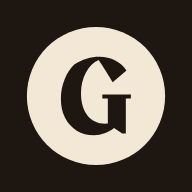
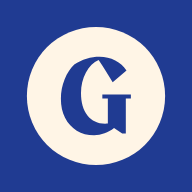
Switch the palette to Cobalt & apricot (Davide's palette C)
Ink #203B92, Paper #FFF5E6, Accent #FF9A57, accent text #9B3E13, from the REV01 guide.
Derived colours are contrast-checked (all text pairs pass 4.5:1). Buttons follow the
palette variables instead of hard-coded brass, the automation ladder climbs from blue to
apricot, and the favicon, app icons, theme colour, manifest and share image are rebuilt.
The Espresso & brass palette stays in the Looks panel (?looks=1) for comparison.

diff --git a/public/assets/js/looks.js b/public/assets/js/looks.js
@@ -2,17 +2,17 @@
 // It is off for visitors. Add ?looks=1 to any address to turn it on in this browser, ?looks=0 to turn it off.
 // The choice is remembered on this computer, and "Reset" returns the page to the current look.
 (function () {
-  var KEY = 'gdm:looks:v3';
+  var KEY = 'gdm:looks:v4';
   var HEADS = [['', 'Current (Inter + serif accent)'], ['rakkas', 'Rakkas'], ['newsreader', 'Newsreader'], ['zilla', 'Zilla Slab'], ['bricolage', 'Bricolage Grotesque'], ['sourcesans', 'Source Sans 3'], ['manrope', 'Manrope'], ['instrument', 'Instrument Serif']];
   var BODIES = [['', 'Current (Inter)'], ['sourcesans', 'Source Sans 3'], ['manrope', 'Manrope'], ['newsreader', 'Newsreader'], ['zilla', 'Zilla Slab'], ['bricolage', 'Bricolage Grotesque']];
-  var PALETTES = [['', 'Current'], ['aubergine', 'Aubergine & citron'], ['a', 'A Forest & linen'], ['b', 'B Slate & ember'], ['c', 'C Cobalt & apricot'], ['lamplight', 'Lamplight (walnut & amber)'], ['navybrass', 'Navy & brass'], ['evergreen', 'Evergreen & marigold'], ['tomato', 'Charcoal & tomato'], ['denim', 'Denim & butter'], ['plum', 'Plum & peach'], ['sage', 'Charcoal & sage'], ['twoam', 'Two a.m. (midnight & sky)'], ['burnt', 'Burnt orange & cream'], ['cobaltlemon', 'Cobalt & lemon'], ['emeraldblush', 'Emerald & blush'], ['oxblood', 'Oxblood & gold'], ['violetlime', 'Violet & lime'], ['tealcoral', 'Deep teal & coral'], ['electric', 'Black & electric green'], ['tobacco', 'Tobacco & turquoise'], ['ketchup', 'Ketchup & mustard'], ['poolsun', 'Pool blue & sunflower'], ['fireside', 'Fireside (char & ember)'], ['bankerlamp', 'Library lamp (library green & brass)'], ['mahogany', 'Mahogany & amber'], ['bookbinder', 'Bookbinder (burgundy & gilt)'], ['mossfire', 'Moss & firelight'], ['snowedin', 'Snowed in (pine night & ember)']];
-  var BROWNS = [['saddle', 'Saddle leather & brass'], ['smoke', 'Smoke & parchment'], ['whiskey', 'Whiskey & oak'], ['espresso', 'Espresso & brass'], ['walnut', 'Walnut & gold leaf'], ['champagne', 'Saddle & champagne'], ['cocoa', 'Cocoa & old gold'], ['mocha', 'Mocha & marigold'], ['polished', 'Leather & polished gold'], ['burnished', 'Smoke & burnished brass'], ['honey', 'Oak & honey']];
+  var PALETTES = [['cobalt', 'Cobalt & apricot (live)'], ['', 'Original black & amber'], ['aubergine', 'Aubergine & citron'], ['a', 'A Forest & linen'], ['b', 'B Slate & ember'], ['lamplight', 'Lamplight (walnut & amber)'], ['navybrass', 'Navy & brass'], ['evergreen', 'Evergreen & marigold'], ['tomato', 'Charcoal & tomato'], ['denim', 'Denim & butter'], ['plum', 'Plum & peach'], ['sage', 'Charcoal & sage'], ['twoam', 'Two a.m. (midnight & sky)'], ['burnt', 'Burnt orange & cream'], ['cobaltlemon', 'Cobalt & lemon'], ['emeraldblush', 'Emerald & blush'], ['oxblood', 'Oxblood & gold'], ['violetlime', 'Violet & lime'], ['tealcoral', 'Deep teal & coral'], ['electric', 'Black & electric green'], ['tobacco', 'Tobacco & turquoise'], ['ketchup', 'Ketchup & mustard'], ['poolsun', 'Pool blue & sunflower'], ['fireside', 'Fireside (char & ember)'], ['bankerlamp', 'Library lamp (library green & brass)'], ['mahogany', 'Mahogany & amber'], ['bookbinder', 'Bookbinder (burgundy & gilt)'], ['mossfire', 'Moss & firelight'], ['snowedin', 'Snowed in (pine night & ember)']];
+  var BROWNS = [['saddle', 'Saddle leather & brass'], ['smoke', 'Smoke & parchment'], ['whiskey', 'Whiskey & oak'], ['espresso', 'Espresso & brass (previous live look)'], ['walnut', 'Walnut & gold leaf'], ['champagne', 'Saddle & champagne'], ['cocoa', 'Cocoa & old gold'], ['mocha', 'Mocha & marigold'], ['polished', 'Leather & polished gold'], ['burnished', 'Smoke & burnished brass'], ['honey', 'Oak & honey']];
   var SHAPES = [['', 'Rounded'], ['square', 'Square']];
   var PRESETS = [['Designer 01', 'newsreader', 'manrope'], ['Designer 02', 'zilla', 'sourcesans'], ['Designer 03', 'bricolage', 'sourcesans'], ['Rakkas + Source Sans', 'rakkas', 'sourcesans']];
   var HEROES = [['', 'Photo collage'], ['cutout', 'Cut-out portrait (designer)']];
   var LONGS = [['body', 'Body font (recommended)'], ['head', 'Headline font']];
   var SCOPES = [['signature', 'Signature only (recommended)'], ['all', 'All headlines']];
-  var EMPTY = { head: 'newsreader', body: 'sourcesans', palette: 'espresso', shape: '', hero: 'cutout', long: 'body', scope: 'signature' };
+  var EMPTY = { head: 'newsreader', body: 'sourcesans', palette: 'cobalt', shape: '', hero: 'cutout', long: 'body', scope: 'signature' };
   var state = Object.assign({}, EMPTY);
   try { var saved = JSON.parse(localStorage.getItem(KEY)); if (saved) state = Object.assign(state, saved); } catch (e) {}
 

diff --git a/public/assets/css/site.css b/public/assets/css/site.css
@@ -1585,8 +1585,8 @@ html.reveal-ready .mirror-grid:not(.in) .notif { opacity: 0; transform: translat
 .sj-eyebrow { margin-bottom: 8px; color: rgb(var(--r-accent)); font-size: 12.5px; font-weight: 700; letter-spacing: 0.14em; text-transform: uppercase; }
 .skool-join .capture-lead { margin-bottom: 18px; font-size: clamp(22px, 2.3vw, 27px); }
 .sj-actions { display: flex; flex-wrap: wrap; align-items: center; gap: 12px 18px; }
-.skool-join .btn { margin-top: 0; height: 60px; padding-inline: 28px; font-size: 18px; font-weight: 700; background: rgb(var(--r-accent)); color: #1e1611; box-shadow: 0 0 0 4px rgb(var(--r-accent) / 0.22), 0 12px 32px rgb(var(--r-accent) / 0.32); }
-.skool-join .btn:hover { background: #e3bd72; transform: translateY(-1px); }
+.skool-join .btn { margin-top: 0; height: 60px; padding-inline: 28px; font-size: 18px; font-weight: 700; background: rgb(var(--r-accent)); color: rgb(var(--r-ink)); box-shadow: 0 0 0 4px rgb(var(--r-accent) / 0.22), 0 12px 32px rgb(var(--r-accent) / 0.32); }
+.skool-join .btn:hover { background: rgb(var(--r-btn-hover, var(--r-btn))); transform: translateY(-1px); }
 .sj-arrow { display: inline-block; font-size: 22px; line-height: 1; transition: transform 0.15s var(--ease); }
 .skool-join .btn:hover .sj-arrow { transform: translateX(4px); }
 .sj-on { display: flex; align-items: center; gap: 8px; margin: 0; color: var(--fog); font-size: 13.5px; }
@@ -1602,8 +1602,8 @@ html.reveal-ready .mirror-grid:not(.in) .notif { opacity: 0; transform: translat
 .join-lead { flex: 1 1 280px; max-width: 24ch; color: var(--paper); font-size: clamp(23px, 2.5vw, 30px); font-weight: 700; line-height: 1.2; letter-spacing: -0.02em; text-align: left; }
 .join-card .sj-actions { flex: 0 1 auto; justify-content: flex-start; }
 .join-card .sj-on { color: var(--fog); }
-.join-card .join-btn, .join-inline .join-btn, .sticky-cta .btn { background: rgb(var(--r-accent)); color: #1e1611; }
-.join-card .join-btn:hover, .join-inline .join-btn:hover, .sticky-cta .btn:hover { background: #e3bd72; color: #1e1611; }
+.join-card .join-btn, .join-inline .join-btn, .sticky-cta .btn { background: rgb(var(--r-accent)); color: rgb(var(--r-ink)); }
+.join-card .join-btn:hover, .join-inline .join-btn:hover, .sticky-cta .btn:hover { background: rgb(var(--r-btn-hover, var(--r-btn))); color: rgb(var(--r-ink)); }
 .join-card .join-btn, .join-inline .join-btn { height: 60px; margin-top: 0; padding-inline: 28px; font-size: 18px; font-weight: 700; box-shadow: 0 0 0 4px rgb(var(--r-accent) / 0.22), 0 12px 32px rgb(var(--r-accent) / 0.28); }
 .join-card .join-btn:hover .sj-arrow, .join-inline .join-btn:hover .sj-arrow { transform: translateX(4px); }
 .join-inline { display: flex; flex-wrap: wrap; align-items: center; gap: 12px 18px; margin-top: 28px; }

diff --git a/public/assets/css/looks.css b/public/assets/css/looks.css
@@ -878,6 +878,35 @@ html[data-palette="espresso"] {
   --r-calc: 52 45 41;
   --r-muted-light: 111 102 91;
   --r-notif: 59 52 48;
+  --r-btn-hover: 227 189 114;
+}
+
+html[data-palette="cobalt"] {
+  --r-ink: 32 59 146;
+  --r-paper: 255 245 230;
+  --r-accent: 255 154 87;
+  --r-accent-text: 155 62 19;
+  --r-terra: 155 62 19;
+  --r-btn: 255 154 87;
+  --r-graphite: 50 75 155;
+  --r-cream: 240 230 218;
+  --r-teal: 150 210 200;
+  --r-blue: 160 190 245;
+  --r-coral: 255 176 140;
+  --r-band-a: 24 44 110;
+  --r-band-b: 20 37 91;
+  --r-card-b: 28 52 128;
+  --r-qbg: 18 32 80;
+  --r-phone-screen: 21 39 96;
+  --r-phone-frame: 81 100 164;
+  --r-night: 21 39 96;
+  --r-calc: 54 79 157;
+  --r-notif: 61 84 160;
+  --r-soft: 228 223 220;
+  --r-fog: 202 207 230;
+  --r-muted-light: 88 99 140;
+  --r-btn-hover: 255 176 118;
+  --r-error-soft: 255 196 206;
 }
 
 html[data-palette="walnut"] {
@@ -1242,4 +1271,16 @@ html[data-hero="cutout"] .hero .hero-start { order: 4; justify-self: start; marg
 @media (max-width: 520px) { html[data-hero="cutout"] .hero .hero-start { justify-self: stretch; } }
 @media (min-width: 881px) {
   html[data-hero="cutout"] .hero .hero-start { grid-column: 1; grid-row: 4; margin-top: clamp(32px, 6vh, 60px); }
+}
+
+/* ---- cobalt: the ladder climbs from blue to apricot; apricot at partial strength over blue turns muddy ---- */
+html[data-palette="cobalt"] .s1 { background: rgb(var(--r-card-b)); border-color: rgb(var(--r-accent) / 0.5); }
+html[data-palette="cobalt"] .s2 { background: rgb(var(--r-graphite)); color: var(--paper); }
+html[data-palette="cobalt"] .s3 { background: rgb(var(--r-cream)); color: rgb(var(--r-qbg)); }
+html[data-palette="cobalt"] .band-amber {
+  background:
+    radial-gradient(ellipse 60% 420px at 50% 0, rgb(var(--r-blue) / 0.22), transparent 70%),
+    radial-gradient(ellipse 45% 380px at 100% 100%, rgb(var(--r-accent) / 0.10), transparent 70%),
+    rgb(var(--r-qbg));
+  border-block-color: rgb(var(--r-blue) / 0.3);
 }

diff --git a/public/assets/css/theme.css b/public/assets/css/theme.css
@@ -53,6 +53,35 @@ html[data-palette="espresso"] {
   --r-calc: 52 45 41;
   --r-muted-light: 111 102 91;
   --r-notif: 59 52 48;
+  --r-btn-hover: 227 189 114;
+}
+
+html[data-palette="cobalt"] {
+  --r-ink: 32 59 146;
+  --r-paper: 255 245 230;
+  --r-accent: 255 154 87;
+  --r-accent-text: 155 62 19;
+  --r-terra: 155 62 19;
+  --r-btn: 255 154 87;
+  --r-graphite: 50 75 155;
+  --r-cream: 240 230 218;
+  --r-teal: 150 210 200;
+  --r-blue: 160 190 245;
+  --r-coral: 255 176 140;
+  --r-band-a: 24 44 110;
+  --r-band-b: 20 37 91;
+  --r-card-b: 28 52 128;
+  --r-qbg: 18 32 80;
+  --r-phone-screen: 21 39 96;
+  --r-phone-frame: 81 100 164;
+  --r-night: 21 39 96;
+  --r-calc: 54 79 157;
+  --r-notif: 61 84 160;
+  --r-soft: 228 223 220;
+  --r-fog: 202 207 230;
+  --r-muted-light: 88 99 140;
+  --r-btn-hover: 255 176 118;
+  --r-error-soft: 255 196 206;
 }
 
 /* ---- exact accent on light bands ----
@@ -188,4 +217,16 @@ html[data-hero="cutout"] .hero .hero-start { order: 4; justify-self: start; marg
   .stairs-scale { justify-content: flex-end; border-top: 0; padding-top: 0; margin-top: 14px; }
   .stairs-scale .ss-low { display: none; }
   .stairs-scale span:last-child::before { content: "\2193  "; color: var(--amber); }
+}
+
+/* ---- cobalt: the ladder climbs from blue to apricot; apricot at partial strength over blue turns muddy ---- */
+html[data-palette="cobalt"] .s1 { background: rgb(var(--r-card-b)); border-color: rgb(var(--r-accent) / 0.5); }
+html[data-palette="cobalt"] .s2 { background: rgb(var(--r-graphite)); color: var(--paper); }
+html[data-palette="cobalt"] .s3 { background: rgb(var(--r-cream)); color: rgb(var(--r-qbg)); }
+html[data-palette="cobalt"] .band-amber {
+  background:
+    radial-gradient(ellipse 60% 420px at 50% 0, rgb(var(--r-blue) / 0.22), transparent 70%),
+    radial-gradient(ellipse 45% 380px at 100% 100%, rgb(var(--r-accent) / 0.10), transparent 70%),
+    rgb(var(--r-qbg));
+  border-block-color: rgb(var(--r-blue) / 0.3);
 }

diff --git a/public/assets/css/automation.css b/public/assets/css/automation.css
@@ -10,8 +10,8 @@
 .hc-eyebrow { margin: 0 0 8px; color: rgb(var(--r-accent)); font-size: 12.5px; font-weight: 700; letter-spacing: 0.14em; text-transform: uppercase; }
 .hero-card .capture-lead { margin-bottom: 18px; font-size: clamp(21px, 2.2vw, 26px); }
 .hc-actions { display: flex; flex-wrap: wrap; align-items: center; gap: 14px 22px; }
-.hc-btn.btn { height: 56px; margin: 0; padding-inline: 24px; background: rgb(var(--r-accent)); color: #1e1611; font-weight: 700; box-shadow: 0 0 0 4px rgb(var(--r-accent) / 0.22), 0 12px 32px rgb(var(--r-accent) / 0.28); }
-.hc-btn.btn:hover { background: #e3bd72; }
+.hc-btn.btn { height: 56px; margin: 0; padding-inline: 24px; background: rgb(var(--r-accent)); color: rgb(var(--r-ink)); font-weight: 700; box-shadow: 0 0 0 4px rgb(var(--r-accent) / 0.22), 0 12px 32px rgb(var(--r-accent) / 0.28); }
+.hc-btn.btn:hover { background: rgb(var(--r-btn-hover, var(--r-btn))); }
 .hc-btn:hover .sj-arrow { transform: translateX(4px); }
 .hero-card .capture-note { margin-top: 16px; }
 .hc-alt { color: var(--paper); font-size: 16px; font-weight: 600; text-decoration: underline; text-decoration-color: rgb(var(--r-accent)); text-underline-offset: 4px; }
@@ -71,7 +71,7 @@
 .work .check-list { margin-top: 22px; }
 .work-actions { display: flex; flex-wrap: wrap; align-items: center; gap: 14px 22px; margin-top: 30px; }
 .work-btn.btn { width: auto; height: 60px; margin: 0; padding: 0 28px; background: rgb(var(--r-btn)); color: rgb(var(--r-ink)); border-radius: var(--radius-sm); font-size: 18px; font-weight: 700; text-decoration: none; box-shadow: 0 0 0 4px rgb(var(--r-accent) / 0.22), 0 12px 32px rgb(var(--r-accent) / 0.28); }
-.work-btn.btn:hover { background: #e3bd72; }
+.work-btn.btn:hover { background: rgb(var(--r-btn-hover, var(--r-btn))); }
 .work-or { color: var(--soft); font-size: 16px; }
 .work-or a { color: var(--paper); font-weight: 600; }
 .work-photo { position: relative; max-width: 420px; margin: 0 auto; }

diff --git a/public/index.html b/public/index.html
@@ -1,12 +1,12 @@
 <!doctype html>
-<html lang="en" data-head="newsreader" data-body="sourcesans" data-palette="espresso" data-hero="cutout" data-long="body" data-scope="signature">
+<html lang="en" data-head="newsreader" data-body="sourcesans" data-palette="cobalt" data-hero="cutout" data-long="body" data-scope="signature">
 <head>
   <meta charset="utf-8">
   <meta name="viewport" content="width=device-width, initial-scale=1, viewport-fit=cover">
   <title>Put AI to work. Get your time back. | Gabriel De Almeida</title>
   <meta name="description" content="Practical AI automation for businesses, from a software engineer and founder. Find the work worth automating, build it with a person in the loop, and get your time back.">
   <link rel="canonical" href="https://gabrieldealmeida.com/">
-  <meta name="theme-color" content="#1E1611">
+  <meta name="theme-color" content="#203B92">
   <meta name="color-scheme" content="dark">
 
   <meta property="og:type" content="website">

diff --git a/public/privacy/index.html b/public/privacy/index.html
@@ -1,12 +1,12 @@
 <!doctype html>
-<html lang="en" data-head="newsreader" data-body="sourcesans" data-palette="espresso" data-hero="cutout" data-long="body" data-scope="signature">
+<html lang="en" data-head="newsreader" data-body="sourcesans" data-palette="cobalt" data-hero="cutout" data-long="body" data-scope="signature">
 <head>
   <meta charset="utf-8">
   <meta name="viewport" content="width=device-width, initial-scale=1, viewport-fit=cover">
   <title>Privacy | Gabriel De Almeida</title>
   <meta name="description" content="What this site collects, why, and who handles it.">
   <link rel="canonical" href="https://gabrieldealmeida.com/privacy">
-  <meta name="theme-color" content="#1E1611">
+  <meta name="theme-color" content="#203B92">
   <meta name="color-scheme" content="dark">
   <link rel="icon" href="/favicon.svg" type="image/svg+xml">
   <link rel="icon" href="/favicon.ico" sizes="48x48">

diff --git a/public/404.html b/public/404.html
@@ -1,11 +1,11 @@
 <!doctype html>
-<html lang="en" data-head="newsreader" data-body="sourcesans" data-palette="espresso" data-hero="cutout" data-long="body" data-scope="signature">
+<html lang="en" data-head="newsreader" data-body="sourcesans" data-palette="cobalt" data-hero="cutout" data-long="body" data-scope="signature">
 <head>
   <meta charset="utf-8">
   <meta name="viewport" content="width=device-width, initial-scale=1, viewport-fit=cover">
   <title>Page not found | Gabriel De Almeida</title>
   <meta name="robots" content="noindex">
-  <meta name="theme-color" content="#1E1611">
+  <meta name="theme-color" content="#203B92">
   <meta name="color-scheme" content="dark">
   <link rel="icon" href="/favicon.svg" type="image/svg+xml">
   <link rel="stylesheet" href="/assets/css/site.css">

diff --git a/test/brand.test.js b/test/brand.test.js
@@ -175,7 +175,7 @@ test('the home page speaks to businesses bringing AI into their own operations',
 
 test('the site is in the palette: no stray hex colours in the new stylesheet', () => {
   const css = read(path.join(root, 'public', 'assets', 'css', 'automation.css'));
-  const allowed = new Set(['#1e1611', '#e3bd72']); // the espresso ink and the brass hover already used by theme.css
+  const allowed = new Set(); // every colour comes from the palette variables, so no hex literal belongs in this file
   for (const [hex] of css.matchAll(/#[0-9a-fA-F]{3,8}\b/g)) {
     assert.ok(allowed.has(hex.toLowerCase()), `${hex} in automation.css is not part of the palette`);
   }
